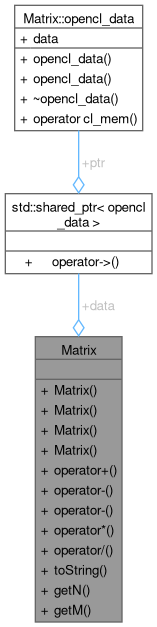
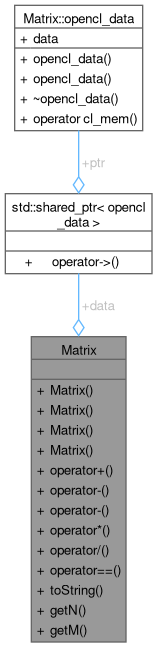
deploy: e9b35724c04c99119e2efe61498385bd8fc17ece

Changed region(s): [[0.0255, 0.2424, 0.9936, 1.0], [0.0764, 0.0, 0.9172, 0.2121]]

diff --git a/Matrix_8h_source.html b/Matrix_8h_source.html
@@ -159,18 +159,20 @@ $(function(){initNavTree('Matrix_8h_source.html',''); initResizable(); });
 <div class="line"><a id="l00079" name="l00079"></a><span class="lineno">   79</span>  <a class="code hl_class" href="classMatrix.html">Matrix</a> operator*(<span class="keyword">const</span> <a class="code hl_class" href="classMatrix.html">Matrix</a> &amp;other) <span class="keyword">const</span>;</div>
 <div class="line"><a id="l00080" name="l00080"></a><span class="lineno">   80</span>  <a class="code hl_class" href="classMatrix.html">Matrix</a> operator/(<span class="keyword">const</span> <a class="code hl_class" href="classMatrix.html">Matrix</a> &amp;other) <span class="keyword">const</span>;</div>
 <div class="line"><a id="l00081" name="l00081"></a><span class="lineno">   81</span> </div>
-<div class="line"><a id="l00087" name="l00087"></a><span class="lineno">   87</span>  std::string <a class="code hl_function" href="classMatrix.html#ae7b85f11d14cbb6db0aaaf63367e4495">toString</a>() <span class="keyword">const</span>;</div>
-<div class="line"><a id="l00088" name="l00088"></a><span class="lineno">   88</span> </div>
-<div class="line"><a id="l00094" name="l00094"></a><span class="lineno">   94</span>  <span class="keywordtype">size_t</span> <a class="code hl_function" href="classMatrix.html#ad7ec78c77398077cde507c32df69a0bd">getN</a>();</div>
-<div class="line"><a id="l00100" name="l00100"></a><span class="lineno">  100</span>  <span class="keywordtype">size_t</span> <a class="code hl_function" href="classMatrix.html#a4f8207471478ed8f8779ee7fe4efedfe">getM</a>();</div>
-<div class="line"><a id="l00104" name="l00104"></a><span class="lineno"><a class="line" href="classMatrix.html#a094fd936bb6dbc68545d29a760818a7f">  104</a></span>  std::shared_ptr&lt;opencl_data&gt; <a class="code hl_variable" href="classMatrix.html#a094fd936bb6dbc68545d29a760818a7f">data</a>;</div>
-<div class="line"><a id="l00105" name="l00105"></a><span class="lineno">  105</span>};</div>
+<div class="line"><a id="l00082" name="l00082"></a><span class="lineno">   82</span>  <span class="keywordtype">bool</span> operator==(<span class="keyword">const</span> <a class="code hl_class" href="classMatrix.html">Matrix</a> &amp;other) <span class="keyword">const</span>;</div>
+<div class="line"><a id="l00083" name="l00083"></a><span class="lineno">   83</span> </div>
+<div class="line"><a id="l00089" name="l00089"></a><span class="lineno">   89</span>  std::string <a class="code hl_function" href="classMatrix.html#ae7b85f11d14cbb6db0aaaf63367e4495">toString</a>() <span class="keyword">const</span>;</div>
+<div class="line"><a id="l00090" name="l00090"></a><span class="lineno">   90</span> </div>
+<div class="line"><a id="l00096" name="l00096"></a><span class="lineno">   96</span>  <span class="keywordtype">size_t</span> <a class="code hl_function" href="classMatrix.html#ad7ec78c77398077cde507c32df69a0bd">getN</a>();</div>
+<div class="line"><a id="l00102" name="l00102"></a><span class="lineno">  102</span>  <span class="keywordtype">size_t</span> <a class="code hl_function" href="classMatrix.html#a4f8207471478ed8f8779ee7fe4efedfe">getM</a>();</div>
+<div class="line"><a id="l00106" name="l00106"></a><span class="lineno"><a class="line" href="classMatrix.html#a094fd936bb6dbc68545d29a760818a7f">  106</a></span>  std::shared_ptr&lt;opencl_data&gt; <a class="code hl_variable" href="classMatrix.html#a094fd936bb6dbc68545d29a760818a7f">data</a>;</div>
+<div class="line"><a id="l00107" name="l00107"></a><span class="lineno">  107</span>};</div>
 </div>
 <div class="ttc" id="aUtil_8h_html"><div class="ttname"><a href="Util_8h.html">Util.h</a></div><div class="ttdoc">definicija korisnih globalnih funkcija i konstanti</div></div>
 <div class="ttc" id="aUtil_8h_html_a0b20f7cf32ea44d98f1dad0373d187cf"><div class="ttname"><a href="Util_8h.html#a0b20f7cf32ea44d98f1dad0373d187cf">checkError</a></div><div class="ttdeci">void checkError(int value)</div><div class="ttdoc">funkcija koja na temelju OpenCL koda baca iznimke ili ne vraća ništa</div><div class="ttdef"><b>Definition</b> Util.cpp:16</div></div>
 <div class="ttc" id="aUtil_8h_html_ab62df1e75bbaf76fd1088a2cfb20355b"><div class="ttname"><a href="Util_8h.html#ab62df1e75bbaf76fd1088a2cfb20355b">globalContext</a></div><div class="ttdeci">cl_context globalContext</div><div class="ttdoc">globalni OpenCL kontekst koje se inicijalizira prilikom pokretanja initCL funkcije</div><div class="ttdef"><b>Definition</b> Util.cpp:12</div></div>
 <div class="ttc" id="aclassMatrix_html"><div class="ttname"><a href="classMatrix.html">Matrix</a></div><div class="ttdoc">klasa koja enkapsulira podatke o matrici koji su spremljeni na povezanom OpenCL uređaju</div><div class="ttdef"><b>Definition</b> Matrix.h:20</div></div>
-<div class="ttc" id="aclassMatrix_html_a094fd936bb6dbc68545d29a760818a7f"><div class="ttname"><a href="classMatrix.html#a094fd936bb6dbc68545d29a760818a7f">Matrix::data</a></div><div class="ttdeci">std::shared_ptr&lt; opencl_data &gt; data</div><div class="ttdoc">referenca na OpenCL podatke</div><div class="ttdef"><b>Definition</b> Matrix.h:104</div></div>
+<div class="ttc" id="aclassMatrix_html_a094fd936bb6dbc68545d29a760818a7f"><div class="ttname"><a href="classMatrix.html#a094fd936bb6dbc68545d29a760818a7f">Matrix::data</a></div><div class="ttdeci">std::shared_ptr&lt; opencl_data &gt; data</div><div class="ttdoc">referenca na OpenCL podatke</div><div class="ttdef"><b>Definition</b> Matrix.h:106</div></div>
 <div class="ttc" id="aclassMatrix_html_a2dba13c45127354c9f75ef576f49269b"><div class="ttname"><a href="classMatrix.html#a2dba13c45127354c9f75ef576f49269b">Matrix::Matrix</a></div><div class="ttdeci">Matrix()</div><div class="ttdoc">prazni konstruktor koji se koristi za neinicijalizirane matrice</div><div class="ttdef"><b>Definition</b> Matrix.cpp:38</div></div>
 <div class="ttc" id="aclassMatrix_html_a4f8207471478ed8f8779ee7fe4efedfe"><div class="ttname"><a href="classMatrix.html#a4f8207471478ed8f8779ee7fe4efedfe">Matrix::getM</a></div><div class="ttdeci">size_t getM()</div><div class="ttdoc">getter za broj M</div><div class="ttdef"><b>Definition</b> Matrix.cpp:71</div></div>
 <div class="ttc" id="aclassMatrix_html_ad7ec78c77398077cde507c32df69a0bd"><div class="ttname"><a href="classMatrix.html#ad7ec78c77398077cde507c32df69a0bd">Matrix::getN</a></div><div class="ttdeci">size_t getN()</div><div class="ttdoc">getter za broj N</div><div class="ttdef"><b>Definition</b> Matrix.cpp:68</div></div>

diff --git a/classReLU.html b/classReLU.html
@@ -140,25 +140,25 @@ Kolaboracijski dijagram za ReLU:</div>
 <div class="dyncontent">
 <div class="center"><img src="classReLU__coll__graph.png" border="0" usemap="#aReLU_coll__map" alt="Collaboration graph"/></div>
 <map name="aReLU_coll__map" id="aReLU_coll__map">
-<area shape="rect" title="klasa koja implementira funkciju &quot;leaky ReLU&quot;" alt="" coords="211,1426,319,1571"/>
-<area shape="rect" href="structautograd_1_1UnaryOperator.html" title=" " alt="" coords="100,1276,253,1376"/>
-<area shape="poly" title=" " alt="" coords="211,1388,230,1425,225,1427,207,1391"/>
-<area shape="rect" href="structautograd_1_1Expression.html" title="struktura koja predstavlja apstraktni matematički izraz ili varijablu. Generalno ju možemo zamisliti ..." alt="" coords="5,988,167,1213"/>
-<area shape="poly" title=" " alt="" coords="139,1226,160,1276,155,1278,134,1228"/>
-<area shape="rect" title=" " alt="" coords="75,772,97,838"/>
-<area shape="poly" title=" " alt="" coords="89,837,89,971,83,971,83,837"/>
-<area shape="rect" title=" " alt="" coords="191,1061,349,1141"/>
-<area shape="poly" title=" " alt="" coords="256,1141,206,1262,201,1260,251,1139"/>
-<area shape="rect" href="structautograd_1_1Expression.html" title=" " alt="" coords="204,685,336,925"/>
-<area shape="poly" title=" " alt="" coords="273,925,273,1044,267,1044,267,925"/>
-<area shape="rect" href="classMatrix.html" title="klasa koja enkapsulira podatke o matrici koji su spremljeni na povezanom OpenCL uređaju" alt="" coords="227,337,313,622"/>
-<area shape="poly" title=" " alt="" coords="273,622,273,668,267,668,267,622"/>
+<area shape="rect" title="klasa koja implementira funkciju &quot;leaky ReLU&quot;" alt="" coords="211,1446,319,1591"/>
+<area shape="rect" href="structautograd_1_1UnaryOperator.html" title=" " alt="" coords="100,1296,253,1396"/>
+<area shape="poly" title=" " alt="" coords="211,1408,230,1445,225,1447,207,1411"/>
+<area shape="rect" href="structautograd_1_1Expression.html" title="struktura koja predstavlja apstraktni matematički izraz ili varijablu. Generalno ju možemo zamisliti ..." alt="" coords="5,1008,167,1233"/>
+<area shape="poly" title=" " alt="" coords="139,1246,160,1296,155,1298,134,1248"/>
+<area shape="rect" title=" " alt="" coords="75,792,97,858"/>
+<area shape="poly" title=" " alt="" coords="89,857,89,991,83,991,83,857"/>
+<area shape="rect" title=" " alt="" coords="191,1081,349,1161"/>
+<area shape="poly" title=" " alt="" coords="256,1161,206,1282,201,1280,251,1159"/>
+<area shape="rect" href="structautograd_1_1Expression.html" title=" " alt="" coords="204,705,336,945"/>
+<area shape="poly" title=" " alt="" coords="273,945,273,1064,267,1064,267,945"/>
+<area shape="rect" href="classMatrix.html" title="klasa koja enkapsulira podatke o matrici koji su spremljeni na povezanom OpenCL uređaju" alt="" coords="223,337,317,642"/>
+<area shape="poly" title=" " alt="" coords="273,642,273,688,267,688,267,642"/>
 <area shape="rect" title=" " alt="" coords="197,194,343,274"/>
-<area shape="poly" title=" " alt="" coords="273,274,273,320,267,320,267,274"/>
+<area shape="poly" title=" " alt="" coords="273,273,273,320,267,320,267,273"/>
 <area shape="rect" title=" " alt="" coords="206,5,334,131"/>
 <area shape="poly" title=" " alt="" coords="273,130,273,177,267,177,267,130"/>
-<area shape="rect" title=" " alt="" coords="278,1279,427,1374"/>
-<area shape="poly" title=" " alt="" coords="324,1388,304,1428,299,1425,320,1386"/>
+<area shape="rect" title=" " alt="" coords="278,1299,427,1394"/>
+<area shape="poly" title=" " alt="" coords="324,1408,304,1448,299,1445,320,1406"/>
 </map>
 </div>
 <table class="memberdecls">

diff --git a/classSigmoid.html b/classSigmoid.html
@@ -140,25 +140,25 @@ Kolaboracijski dijagram za Sigmoid:</div>
 <div class="dyncontent">
 <div class="center"><img src="classSigmoid__coll__graph.png" border="0" usemap="#aSigmoid_coll__map" alt="Collaboration graph"/></div>
 <map name="aSigmoid_coll__map" id="aSigmoid_coll__map">
-<area shape="rect" title="implementacije sigmoid funkcije:" alt="" coords="211,1426,319,1571"/>
-<area shape="rect" href="structautograd_1_1UnaryOperator.html" title=" " alt="" coords="100,1276,253,1376"/>
-<area shape="poly" title=" " alt="" coords="211,1388,230,1425,225,1427,207,1391"/>
-<area shape="rect" href="structautograd_1_1Expression.html" title="struktura koja predstavlja apstraktni matematički izraz ili varijablu. Generalno ju možemo zamisliti ..." alt="" coords="5,988,167,1213"/>
-<area shape="poly" title=" " alt="" coords="139,1226,160,1276,155,1278,134,1228"/>
-<area shape="rect" title=" " alt="" coords="75,772,97,838"/>
-<area shape="poly" title=" " alt="" coords="89,837,89,971,83,971,83,837"/>
-<area shape="rect" title=" " alt="" coords="191,1061,349,1141"/>
-<area shape="poly" title=" " alt="" coords="256,1141,206,1262,201,1260,251,1139"/>
-<area shape="rect" href="structautograd_1_1Expression.html" title=" " alt="" coords="204,685,336,925"/>
-<area shape="poly" title=" " alt="" coords="273,925,273,1044,267,1044,267,925"/>
-<area shape="rect" href="classMatrix.html" title="klasa koja enkapsulira podatke o matrici koji su spremljeni na povezanom OpenCL uređaju" alt="" coords="227,337,313,622"/>
-<area shape="poly" title=" " alt="" coords="273,622,273,668,267,668,267,622"/>
+<area shape="rect" title="implementacije sigmoid funkcije:" alt="" coords="211,1446,319,1591"/>
+<area shape="rect" href="structautograd_1_1UnaryOperator.html" title=" " alt="" coords="100,1296,253,1396"/>
+<area shape="poly" title=" " alt="" coords="211,1408,230,1445,225,1447,207,1411"/>
+<area shape="rect" href="structautograd_1_1Expression.html" title="struktura koja predstavlja apstraktni matematički izraz ili varijablu. Generalno ju možemo zamisliti ..." alt="" coords="5,1008,167,1233"/>
+<area shape="poly" title=" " alt="" coords="139,1246,160,1296,155,1298,134,1248"/>
+<area shape="rect" title=" " alt="" coords="75,792,97,858"/>
+<area shape="poly" title=" " alt="" coords="89,857,89,991,83,991,83,857"/>
+<area shape="rect" title=" " alt="" coords="191,1081,349,1161"/>
+<area shape="poly" title=" " alt="" coords="256,1161,206,1282,201,1280,251,1159"/>
+<area shape="rect" href="structautograd_1_1Expression.html" title=" " alt="" coords="204,705,336,945"/>
+<area shape="poly" title=" " alt="" coords="273,945,273,1064,267,1064,267,945"/>
+<area shape="rect" href="classMatrix.html" title="klasa koja enkapsulira podatke o matrici koji su spremljeni na povezanom OpenCL uređaju" alt="" coords="223,337,317,642"/>
+<area shape="poly" title=" " alt="" coords="273,642,273,688,267,688,267,642"/>
 <area shape="rect" title=" " alt="" coords="197,194,343,274"/>
-<area shape="poly" title=" " alt="" coords="273,274,273,320,267,320,267,274"/>
+<area shape="poly" title=" " alt="" coords="273,273,273,320,267,320,267,273"/>
 <area shape="rect" title=" " alt="" coords="206,5,334,131"/>
 <area shape="poly" title=" " alt="" coords="273,130,273,177,267,177,267,130"/>
-<area shape="rect" title=" " alt="" coords="278,1279,427,1374"/>
-<area shape="poly" title=" " alt="" coords="324,1388,304,1428,299,1425,320,1386"/>
+<area shape="rect" title=" " alt="" coords="278,1299,427,1394"/>
+<area shape="poly" title=" " alt="" coords="324,1408,304,1448,299,1445,320,1406"/>
 </map>
 </div>
 <table class="memberdecls">

diff --git a/structautograd_1_1VectorSumReduction.html b/structautograd_1_1VectorSumReduction.html
@@ -139,21 +139,21 @@ Kolaboracijski dijagram za autograd::VectorSumReduction:</div>
 <div class="dyncontent">
 <div class="center"><img src="structautograd_1_1VectorSumReduction__coll__graph.png" border="0" usemap="#aautograd_1_1VectorSumReduction_coll__map" alt="Collaboration graph"/></div>
 <map name="aautograd_1_1VectorSumReduction_coll__map" id="aautograd_1_1VectorSumReduction_coll__map">
-<area shape="rect" title="unarni operator redukcije matrice u vektora zbrajanjem po proizvoljnoj osi" alt="" coords="81,1426,273,1551"/>
-<area shape="rect" href="structautograd_1_1UnaryOperator.html" title=" " alt="" coords="100,1276,253,1376"/>
-<area shape="poly" title=" " alt="" coords="179,1391,179,1426,174,1426,174,1391"/>
-<area shape="rect" href="structautograd_1_1Expression.html" title="struktura koja predstavlja apstraktni matematički izraz ili varijablu. Generalno ju možemo zamisliti ..." alt="" coords="5,988,167,1213"/>
-<area shape="poly" title=" " alt="" coords="139,1226,160,1276,155,1278,134,1228"/>
-<area shape="rect" title=" " alt="" coords="75,772,97,838"/>
-<area shape="poly" title=" " alt="" coords="89,837,89,971,83,971,83,837"/>
-<area shape="rect" title=" " alt="" coords="191,1061,349,1141"/>
-<area shape="poly" title=" " alt="" coords="256,1141,206,1262,201,1260,251,1139"/>
-<area shape="rect" href="structautograd_1_1Expression.html" title=" " alt="" coords="204,685,336,925"/>
-<area shape="poly" title=" " alt="" coords="273,925,273,1044,267,1044,267,925"/>
-<area shape="rect" href="classMatrix.html" title="klasa koja enkapsulira podatke o matrici koji su spremljeni na povezanom OpenCL uređaju" alt="" coords="227,337,313,622"/>
-<area shape="poly" title=" " alt="" coords="273,622,273,668,267,668,267,622"/>
+<area shape="rect" title="unarni operator redukcije matrice u vektora zbrajanjem po proizvoljnoj osi" alt="" coords="81,1446,273,1571"/>
+<area shape="rect" href="structautograd_1_1UnaryOperator.html" title=" " alt="" coords="100,1296,253,1396"/>
+<area shape="poly" title=" " alt="" coords="179,1411,179,1446,174,1446,174,1411"/>
+<area shape="rect" href="structautograd_1_1Expression.html" title="struktura koja predstavlja apstraktni matematički izraz ili varijablu. Generalno ju možemo zamisliti ..." alt="" coords="5,1008,167,1233"/>
+<area shape="poly" title=" " alt="" coords="139,1246,160,1296,155,1298,134,1248"/>
+<area shape="rect" title=" " alt="" coords="75,792,97,858"/>
+<area shape="poly" title=" " alt="" coords="89,857,89,991,83,991,83,857"/>
+<area shape="rect" title=" " alt="" coords="191,1081,349,1161"/>
+<area shape="poly" title=" " alt="" coords="256,1161,206,1282,201,1280,251,1159"/>
+<area shape="rect" href="structautograd_1_1Expression.html" title=" " alt="" coords="204,705,336,945"/>
+<area shape="poly" title=" " alt="" coords="273,945,273,1064,267,1064,267,945"/>
+<area shape="rect" href="classMatrix.html" title="klasa koja enkapsulira podatke o matrici koji su spremljeni na povezanom OpenCL uređaju" alt="" coords="223,337,317,642"/>
+<area shape="poly" title=" " alt="" coords="273,642,273,688,267,688,267,642"/>
 <area shape="rect" title=" " alt="" coords="197,194,343,274"/>
-<area shape="poly" title=" " alt="" coords="273,274,273,320,267,320,267,274"/>
+<area shape="poly" title=" " alt="" coords="273,273,273,320,267,320,267,273"/>
 <area shape="rect" title=" " alt="" coords="206,5,334,131"/>
 <area shape="poly" title=" " alt="" coords="273,130,273,177,267,177,267,130"/>
 </map>

diff --git a/structautograd_1_1MatrixMultply.html b/structautograd_1_1MatrixMultply.html
@@ -139,21 +139,21 @@ Kolaboracijski dijagram za autograd::MatrixMultply:</div>
 <div class="dyncontent">
 <div class="center"><img src="structautograd_1_1MatrixMultply__coll__graph.png" border="0" usemap="#aautograd_1_1MatrixMultply_coll__map" alt="Collaboration graph"/></div>
 <map name="aautograd_1_1MatrixMultply_coll__map" id="aautograd_1_1MatrixMultply_coll__map">
-<area shape="rect" title="klasa koja predstavlja binarni operator matričnog množenja" alt="" coords="104,1441,249,1586"/>
-<area shape="rect" href="structautograd_1_1BinaryOperator.html" title=" " alt="" coords="99,1291,254,1391"/>
-<area shape="poly" title=" " alt="" coords="179,1406,179,1441,174,1441,174,1406"/>
-<area shape="rect" href="structautograd_1_1Expression.html" title="struktura koja predstavlja apstraktni matematički izraz ili varijablu. Generalno ju možemo zamisliti ..." alt="" coords="5,988,167,1213"/>
-<area shape="poly" title=" " alt="" coords="136,1226,161,1291,156,1293,131,1228"/>
-<area shape="rect" title=" " alt="" coords="75,772,97,838"/>
-<area shape="poly" title=" " alt="" coords="89,837,89,971,83,971,83,837"/>
-<area shape="rect" title=" " alt="" coords="191,1061,349,1141"/>
-<area shape="poly" title=" " alt="" coords="257,1141,204,1277,199,1275,253,1139"/>
-<area shape="rect" href="structautograd_1_1Expression.html" title=" " alt="" coords="204,685,336,925"/>
-<area shape="poly" title=" " alt="" coords="273,925,273,1044,267,1044,267,925"/>
-<area shape="rect" href="classMatrix.html" title="klasa koja enkapsulira podatke o matrici koji su spremljeni na povezanom OpenCL uređaju" alt="" coords="227,337,313,622"/>
-<area shape="poly" title=" " alt="" coords="273,622,273,668,267,668,267,622"/>
+<area shape="rect" title="klasa koja predstavlja binarni operator matričnog množenja" alt="" coords="104,1461,249,1606"/>
+<area shape="rect" href="structautograd_1_1BinaryOperator.html" title=" " alt="" coords="99,1311,254,1411"/>
+<area shape="poly" title=" " alt="" coords="179,1426,179,1461,174,1461,174,1426"/>
+<area shape="rect" href="structautograd_1_1Expression.html" title="struktura koja predstavlja apstraktni matematički izraz ili varijablu. Generalno ju možemo zamisliti ..." alt="" coords="5,1008,167,1233"/>
+<area shape="poly" title=" " alt="" coords="136,1246,161,1311,156,1313,131,1248"/>
+<area shape="rect" title=" " alt="" coords="75,792,97,858"/>
+<area shape="poly" title=" " alt="" coords="89,857,89,991,83,991,83,857"/>
+<area shape="rect" title=" " alt="" coords="191,1081,349,1161"/>
+<area shape="poly" title=" " alt="" coords="257,1161,204,1297,199,1295,253,1159"/>
+<area shape="rect" href="structautograd_1_1Expression.html" title=" " alt="" coords="204,705,336,945"/>
+<area shape="poly" title=" " alt="" coords="273,945,273,1064,267,1064,267,945"/>
+<area shape="rect" href="classMatrix.html" title="klasa koja enkapsulira podatke o matrici koji su spremljeni na povezanom OpenCL uređaju" alt="" coords="223,337,317,642"/>
+<area shape="poly" title=" " alt="" coords="273,642,273,688,267,688,267,642"/>
 <area shape="rect" title=" " alt="" coords="197,194,343,274"/>
-<area shape="poly" title=" " alt="" coords="273,274,273,320,267,320,267,274"/>
+<area shape="poly" title=" " alt="" coords="273,273,273,320,267,320,267,273"/>
 <area shape="rect" title=" " alt="" coords="206,5,334,131"/>
 <area shape="poly" title=" " alt="" coords="273,130,273,177,267,177,267,130"/>
 </map>

diff --git a/structautograd_1_1MatrixVectorAdd.html b/structautograd_1_1MatrixVectorAdd.html
@@ -138,21 +138,21 @@ Kolaboracijski dijagram za autograd::MatrixVectorAdd:</div>
 <div class="dyncontent">
 <div class="center"><img src="structautograd_1_1MatrixVectorAdd__coll__graph.png" border="0" usemap="#aautograd_1_1MatrixVectorAdd_coll__map" alt="Collaboration graph"/></div>
 <map name="aautograd_1_1MatrixVectorAdd_coll__map" id="aautograd_1_1MatrixVectorAdd_coll__map">
-<area shape="rect" title="binarni operator zbrajanja matrice s vektorom:" alt="" coords="94,1441,259,1566"/>
-<area shape="rect" href="structautograd_1_1BinaryOperator.html" title=" " alt="" coords="99,1291,254,1391"/>
-<area shape="poly" title=" " alt="" coords="179,1406,179,1441,174,1441,174,1406"/>
-<area shape="rect" href="structautograd_1_1Expression.html" title="struktura koja predstavlja apstraktni matematički izraz ili varijablu. Generalno ju možemo zamisliti ..." alt="" coords="5,988,167,1213"/>
-<area shape="poly" title=" " alt="" coords="136,1226,161,1291,156,1293,131,1228"/>
-<area shape="rect" title=" " alt="" coords="75,772,97,838"/>
-<area shape="poly" title=" " alt="" coords="89,837,89,971,83,971,83,837"/>
-<area shape="rect" title=" " alt="" coords="191,1061,349,1141"/>
-<area shape="poly" title=" " alt="" coords="257,1141,204,1277,199,1275,253,1139"/>
-<area shape="rect" href="structautograd_1_1Expression.html" title=" " alt="" coords="204,685,336,925"/>
-<area shape="poly" title=" " alt="" coords="273,925,273,1044,267,1044,267,925"/>
-<area shape="rect" href="classMatrix.html" title="klasa koja enkapsulira podatke o matrici koji su spremljeni na povezanom OpenCL uređaju" alt="" coords="227,337,313,622"/>
-<area shape="poly" title=" " alt="" coords="273,622,273,668,267,668,267,622"/>
+<area shape="rect" title="binarni operator zbrajanja matrice s vektorom:" alt="" coords="94,1461,259,1586"/>
+<area shape="rect" href="structautograd_1_1BinaryOperator.html" title=" " alt="" coords="99,1311,254,1411"/>
+<area shape="poly" title=" " alt="" coords="179,1426,179,1461,174,1461,174,1426"/>
+<area shape="rect" href="structautograd_1_1Expression.html" title="struktura koja predstavlja apstraktni matematički izraz ili varijablu. Generalno ju možemo zamisliti ..." alt="" coords="5,1008,167,1233"/>
+<area shape="poly" title=" " alt="" coords="136,1246,161,1311,156,1313,131,1248"/>
+<area shape="rect" title=" " alt="" coords="75,792,97,858"/>
+<area shape="poly" title=" " alt="" coords="89,857,89,991,83,991,83,857"/>
+<area shape="rect" title=" " alt="" coords="191,1081,349,1161"/>
+<area shape="poly" title=" " alt="" coords="257,1161,204,1297,199,1295,253,1159"/>
+<area shape="rect" href="structautograd_1_1Expression.html" title=" " alt="" coords="204,705,336,945"/>
+<area shape="poly" title=" " alt="" coords="273,945,273,1064,267,1064,267,945"/>
+<area shape="rect" href="classMatrix.html" title="klasa koja enkapsulira podatke o matrici koji su spremljeni na povezanom OpenCL uređaju" alt="" coords="223,337,317,642"/>
+<area shape="poly" title=" " alt="" coords="273,642,273,688,267,688,267,642"/>
 <area shape="rect" title=" " alt="" coords="197,194,343,274"/>
-<area shape="poly" title=" " alt="" coords="273,274,273,320,267,320,267,274"/>
+<area shape="poly" title=" " alt="" coords="273,273,273,320,267,320,267,273"/>
 <area shape="rect" title=" " alt="" coords="206,5,334,131"/>
 <area shape="poly" title=" " alt="" coords="273,130,273,177,267,177,267,130"/>
 </map>

diff --git a/classCrossEntropyLoss.html b/classCrossEntropyLoss.html
@@ -133,21 +133,21 @@ Kolaboracijski dijagram za CrossEntropyLoss:</div>
 <div class="dyncontent">
 <div class="center"><img src="classCrossEntropyLoss__coll__graph.png" border="0" usemap="#aCrossEntropyLoss_coll__map" alt="Collaboration graph"/></div>
 <map name="aCrossEntropyLoss_coll__map" id="aCrossEntropyLoss_coll__map">
-<area shape="rect" title=" " alt="" coords="105,1441,249,1566"/>
-<area shape="rect" href="structautograd_1_1BinaryOperator.html" title=" " alt="" coords="99,1291,254,1391"/>
-<area shape="poly" title=" " alt="" coords="179,1406,179,1441,174,1441,174,1406"/>
-<area shape="rect" href="structautograd_1_1Expression.html" title="struktura koja predstavlja apstraktni matematički izraz ili varijablu. Generalno ju možemo zamisliti ..." alt="" coords="5,988,167,1213"/>
-<area shape="poly" title=" " alt="" coords="136,1226,161,1291,156,1293,131,1228"/>
-<area shape="rect" title=" " alt="" coords="75,772,97,838"/>
-<area shape="poly" title=" " alt="" coords="89,837,89,971,83,971,83,837"/>
-<area shape="rect" title=" " alt="" coords="191,1061,349,1141"/>
-<area shape="poly" title=" " alt="" coords="257,1141,204,1277,199,1275,253,1139"/>
-<area shape="rect" href="structautograd_1_1Expression.html" title=" " alt="" coords="204,685,336,925"/>
-<area shape="poly" title=" " alt="" coords="273,925,273,1044,267,1044,267,925"/>
-<area shape="rect" href="classMatrix.html" title="klasa koja enkapsulira podatke o matrici koji su spremljeni na povezanom OpenCL uređaju" alt="" coords="227,337,313,622"/>
-<area shape="poly" title=" " alt="" coords="273,622,273,668,267,668,267,622"/>
+<area shape="rect" title=" " alt="" coords="105,1461,249,1586"/>
+<area shape="rect" href="structautograd_1_1BinaryOperator.html" title=" " alt="" coords="99,1311,254,1411"/>
+<area shape="poly" title=" " alt="" coords="179,1426,179,1461,174,1461,174,1426"/>
+<area shape="rect" href="structautograd_1_1Expression.html" title="struktura koja predstavlja apstraktni matematički izraz ili varijablu. Generalno ju možemo zamisliti ..." alt="" coords="5,1008,167,1233"/>
+<area shape="poly" title=" " alt="" coords="136,1246,161,1311,156,1313,131,1248"/>
+<area shape="rect" title=" " alt="" coords="75,792,97,858"/>
+<area shape="poly" title=" " alt="" coords="89,857,89,991,83,991,83,857"/>
+<area shape="rect" title=" " alt="" coords="191,1081,349,1161"/>
+<area shape="poly" title=" " alt="" coords="257,1161,204,1297,199,1295,253,1159"/>
+<area shape="rect" href="structautograd_1_1Expression.html" title=" " alt="" coords="204,705,336,945"/>
+<area shape="poly" title=" " alt="" coords="273,945,273,1064,267,1064,267,945"/>
+<area shape="rect" href="classMatrix.html" title="klasa koja enkapsulira podatke o matrici koji su spremljeni na povezanom OpenCL uređaju" alt="" coords="223,337,317,642"/>
+<area shape="poly" title=" " alt="" coords="273,642,273,688,267,688,267,642"/>
 <area shape="rect" title=" " alt="" coords="197,194,343,274"/>
-<area shape="poly" title=" " alt="" coords="273,274,273,320,267,320,267,274"/>
+<area shape="poly" title=" " alt="" coords="273,273,273,320,267,320,267,273"/>
 <area shape="rect" title=" " alt="" coords="206,5,334,131"/>
 <area shape="poly" title=" " alt="" coords="273,130,273,177,267,177,267,130"/>
 </map>

diff --git a/classMatrix.html b/classMatrix.html
@@ -127,9 +127,9 @@ Kolaboracijski dijagram za Matrix:</div>
 <div class="dyncontent">
 <div class="center"><img src="classMatrix__coll__graph.png" border="0" usemap="#aMatrix_coll__map" alt="Collaboration graph"/></div>
 <map name="aMatrix_coll__map" id="aMatrix_coll__map">
-<area shape="rect" title="klasa koja enkapsulira podatke o matrici koji su spremljeni na povezanom OpenCL uređaju" alt="" coords="35,337,122,622"/>
+<area shape="rect" title="klasa koja enkapsulira podatke o matrici koji su spremljeni na povezanom OpenCL uređaju" alt="" coords="31,337,126,642"/>
 <area shape="rect" title=" " alt="" coords="5,194,152,274"/>
-<area shape="poly" title=" " alt="" coords="81,274,81,320,76,320,76,274"/>
+<area shape="poly" title=" " alt="" coords="81,273,81,320,76,320,76,273"/>
 <area shape="rect" title=" " alt="" coords="15,5,143,131"/>
 <area shape="poly" title=" " alt="" coords="81,130,81,177,76,177,76,130"/>
 </map>
@@ -165,6 +165,9 @@ Public članovi</h2></td></tr>
 <tr class="memitem:a53e8c12c071faa4dd107e123aef2ed79" id="r_a53e8c12c071faa4dd107e123aef2ed79"><td class="memItemLeft" align="right" valign="top"><a id="a53e8c12c071faa4dd107e123aef2ed79" name="a53e8c12c071faa4dd107e123aef2ed79"></a>
 <a class="el" href="classMatrix.html">Matrix</a>&#160;</td><td class="memItemRight" valign="bottom"><b>operator/</b> (const <a class="el" href="classMatrix.html">Matrix</a> &amp;other) const</td></tr>
 <tr class="separator:a53e8c12c071faa4dd107e123aef2ed79"><td class="memSeparator" colspan="2">&#160;</td></tr>
+<tr class="memitem:a797d03df703f77cccb25ab9a0770e760" id="r_a797d03df703f77cccb25ab9a0770e760"><td class="memItemLeft" align="right" valign="top"><a id="a797d03df703f77cccb25ab9a0770e760" name="a797d03df703f77cccb25ab9a0770e760"></a>
+bool&#160;</td><td class="memItemRight" valign="bottom"><b>operator==</b> (const <a class="el" href="classMatrix.html">Matrix</a> &amp;other) const</td></tr>
+<tr class="separator:a797d03df703f77cccb25ab9a0770e760"><td class="memSeparator" colspan="2">&#160;</td></tr>
 <tr class="memitem:ae7b85f11d14cbb6db0aaaf63367e4495" id="r_ae7b85f11d14cbb6db0aaaf63367e4495"><td class="memItemLeft" align="right" valign="top">std::string&#160;</td><td class="memItemRight" valign="bottom"><a class="el" href="#ae7b85f11d14cbb6db0aaaf63367e4495">toString</a> () const</td></tr>
 <tr class="memdesc:ae7b85f11d14cbb6db0aaaf63367e4495"><td class="mdescLeft">&#160;</td><td class="mdescRight">pretvori matricu u std::string  <br /></td></tr>
 <tr class="separator:ae7b85f11d14cbb6db0aaaf63367e4495"><td class="memSeparator" colspan="2">&#160;</td></tr>

diff --git a/classMatrix-members.html b/classMatrix-members.html
@@ -128,7 +128,8 @@ $(function(){initNavTree('classMatrix.html',''); initResizable(); });
   <tr bgcolor="#f0f0f0" class="odd"><td class="entry"><b>operator-</b>(const Matrix &amp;other) const (definirano u <a class="el" href="classMatrix.html">Matrix</a>)</td><td class="entry"><a class="el" href="classMatrix.html">Matrix</a></td><td class="entry"></td></tr>
   <tr bgcolor="#f0f0f0" class="even"><td class="entry"><b>operator-</b>() const (definirano u <a class="el" href="classMatrix.html">Matrix</a>)</td><td class="entry"><a class="el" href="classMatrix.html">Matrix</a></td><td class="entry"></td></tr>
   <tr bgcolor="#f0f0f0" class="odd"><td class="entry"><b>operator/</b>(const Matrix &amp;other) const (definirano u <a class="el" href="classMatrix.html">Matrix</a>)</td><td class="entry"><a class="el" href="classMatrix.html">Matrix</a></td><td class="entry"></td></tr>
-  <tr class="even"><td class="entry"><a class="el" href="classMatrix.html#ae7b85f11d14cbb6db0aaaf63367e4495">toString</a>() const</td><td class="entry"><a class="el" href="classMatrix.html">Matrix</a></td><td class="entry"></td></tr>
+  <tr bgcolor="#f0f0f0" class="even"><td class="entry"><b>operator==</b>(const Matrix &amp;other) const (definirano u <a class="el" href="classMatrix.html">Matrix</a>)</td><td class="entry"><a class="el" href="classMatrix.html">Matrix</a></td><td class="entry"></td></tr>
+  <tr class="odd"><td class="entry"><a class="el" href="classMatrix.html#ae7b85f11d14cbb6db0aaaf63367e4495">toString</a>() const</td><td class="entry"><a class="el" href="classMatrix.html">Matrix</a></td><td class="entry"></td></tr>
 </table></div><!-- contents -->
 </div><!-- doc-content -->
 <!-- start footer part -->
